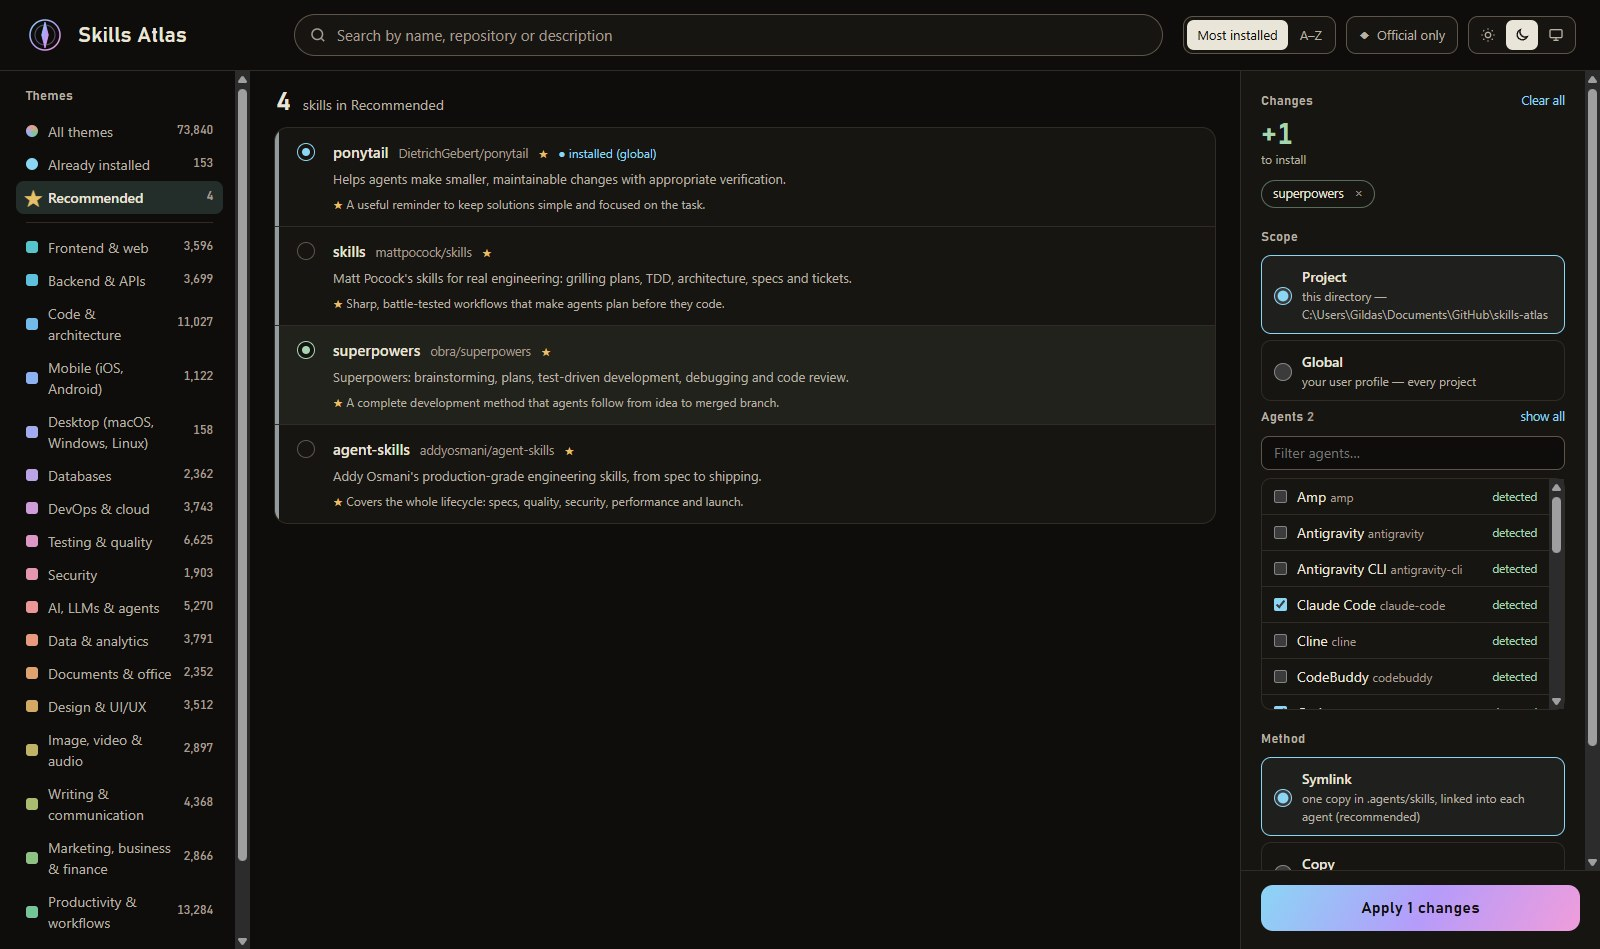
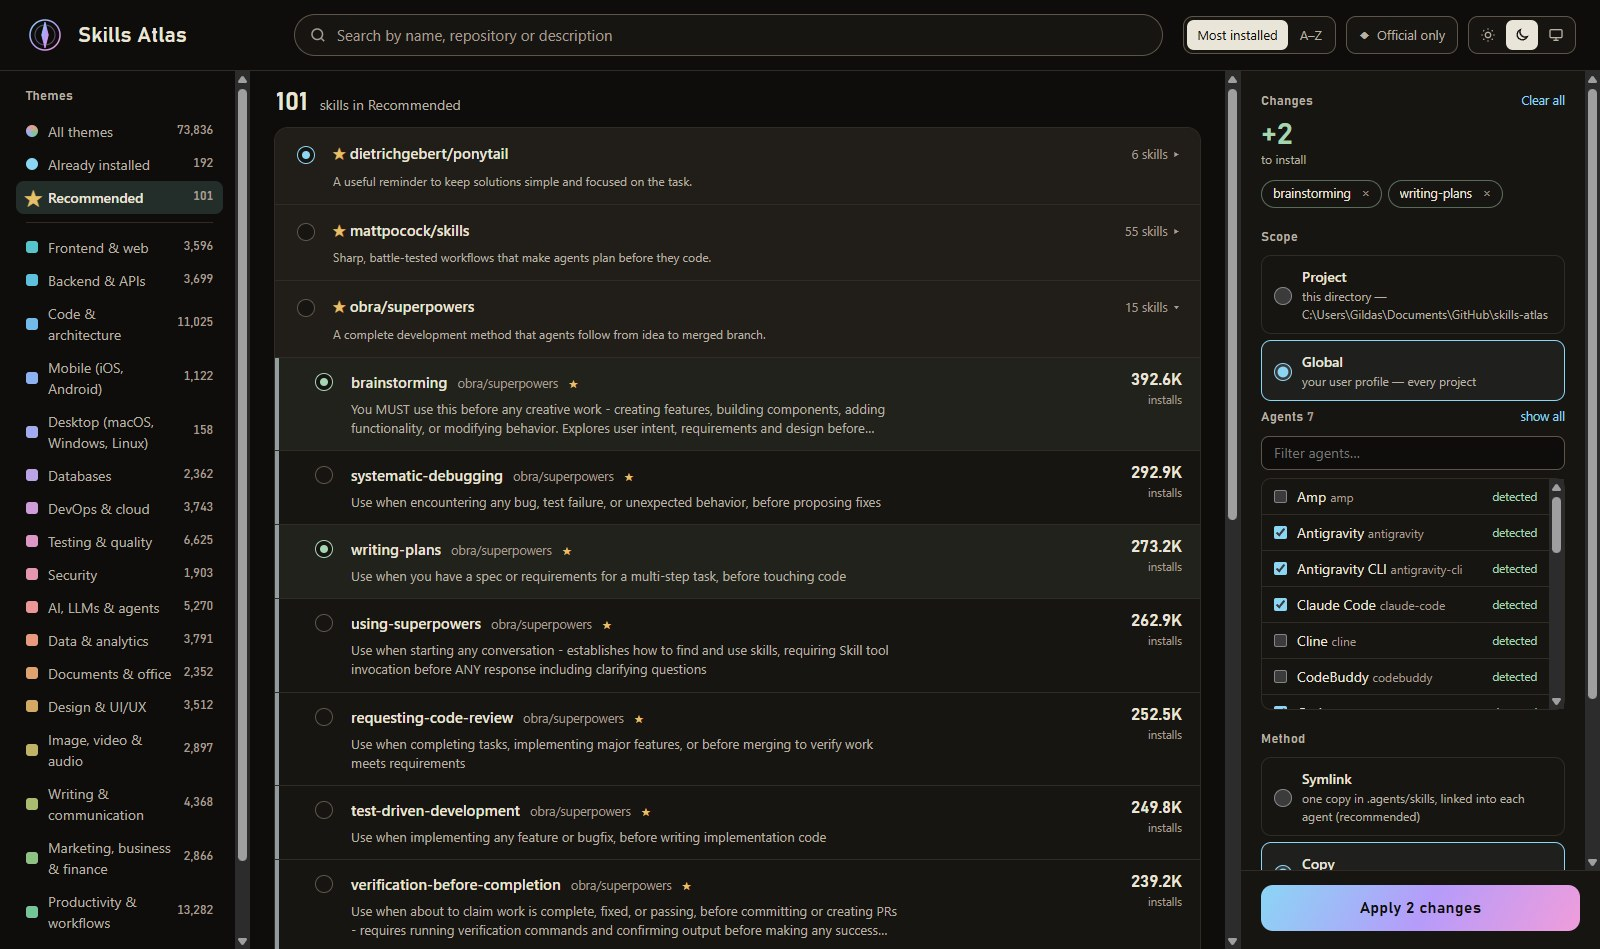
docs: refresh screenshots for 0.7.2 and show the agents step

diff --git a/README.md b/README.md
@@ -4,9 +4,9 @@ Browse public **Agent Skills** (`SKILL.md` format) by theme in a collapsible ter
 
 **★ Recommended** highlights a personal selection, with Ponytail, mattpocock/skills, obra/superpowers and addyosmani/agent-skills. Both interfaces support nine languages, including Italian, Japanese, Korean and Simplified Chinese.
 
-![Skills Atlas terminal tree showing pink selections, gold Recommended stars and keyboard controls](https://raw.githubusercontent.com/devohmycode/skills-atlas/main/docs/screenshot.png?v=0.7.1)
+![Skills Atlas terminal tree with installed skills, Recommended grouped by repository and two superpowers skills ticked](https://raw.githubusercontent.com/devohmycode/skills-atlas/main/docs/screenshot.png?v=0.7.2)
 
-*Terminal: candy-pink selections, gold Recommended stars and keyboard controls.*
+*Terminal: installed skills ticked, ★ Recommended opened by repository, candy-pink selections.*
 
 ## Installation
 
@@ -42,7 +42,7 @@ skills-atlas ui                               # the same in your browser, with t
 
 ### Web interface
 
-![Skills Atlas web interface with Recommended skills, catalog search and an installation changes panel](https://raw.githubusercontent.com/devohmycode/skills-atlas/main/docs/web-ui.jpg?v=0.7.1)
+![Skills Atlas web interface with Recommended skills, catalog search and an installation changes panel](https://raw.githubusercontent.com/devohmycode/skills-atlas/main/docs/web-ui.jpg?v=0.7.2)
 
 *Web: the same catalog and selection workflow, with light, dark and system appearance.*
 
@@ -110,6 +110,10 @@ Only `repository` (a GitHub repository URL) and `reason` are required. Without `
 - **Uninstall**: unticking an installed skill marks it `✗ will be uninstalled`. On confirmation it is removed from every agent of every scope it was found in, with one `npx skills remove -s … -y [-g]` per scope, then checked on disk.
 - **Install**: ticking a skill that is not installed installs it. The scope is asked after the tree, pre-filled with your last choice, unless `-p`/`-g` sets it.
 - **Questions**: the status line shows the balance `+N −M`. Scope, agents and method are only asked when there is something to install.
+
+![Skills Atlas agent step listing every supported agent, with the agents detected on this machine flagged and two of them ticked](https://raw.githubusercontent.com/devohmycode/skills-atlas/main/docs/agents.png?v=0.7.2)
+
+*Agents step: every agent the skills CLI supports, with those detected on this machine flagged `· detected`.*
 
 ### Keys (tree)
 
